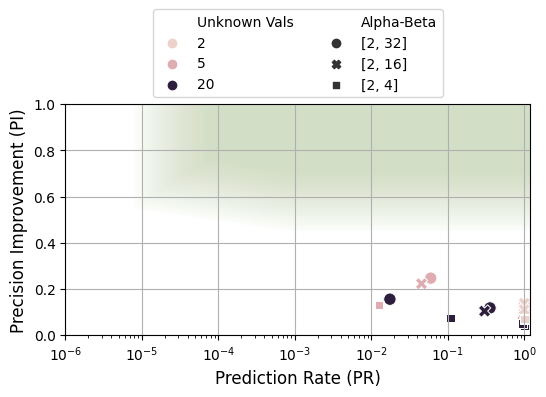
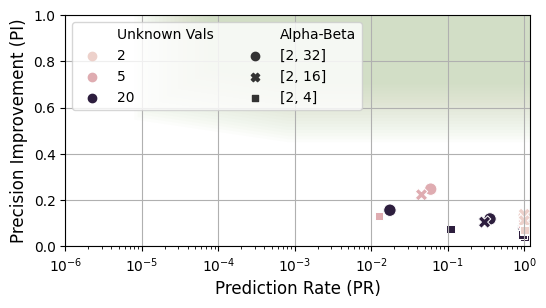
update plot

Changed region(s): [[0.0, 0.0, 0.9963, 0.9643], [0.2179, 0.1753, 0.2491, 0.2045], [0.1557, 0.1753, 0.1868, 0.2045]]

diff --git a/diffixElmPaperAttacks/outlierBucket/plot.py b/diffixElmPaperAttacks/outlierBucket/plot.py
@@ -169,7 +169,7 @@ rp = tools.risk.riskPatches()
 shapes = rp.getShapes(params)
 plt.xlabel('Prediction Rate (PR)',fontsize=12)
 plt.ylabel('Precision Improvement (PI)',fontsize=12)
-ax.legend(loc='lower center', bbox_to_anchor=(0.5, 1.0), ncol=2)
+ax.legend(loc='upper left', bbox_to_anchor=(0.0, 1.0), ncol=2)
 plt.grid()
 plt.ylim(0,1.0)
 plt.xlim(0.000001,1.2)
